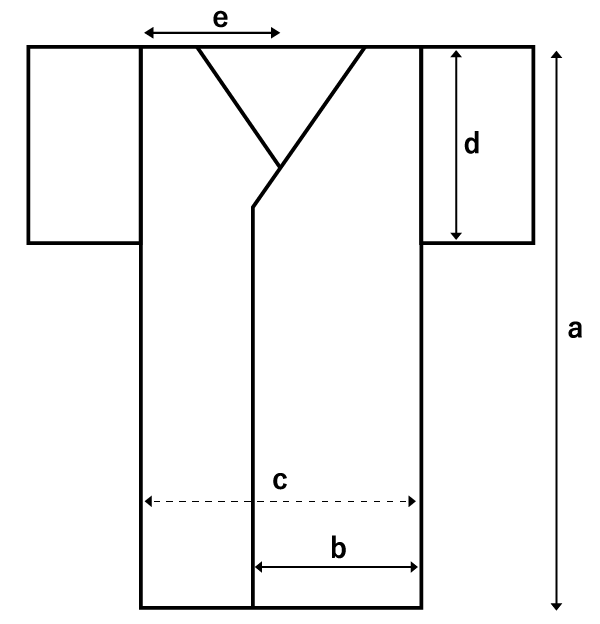
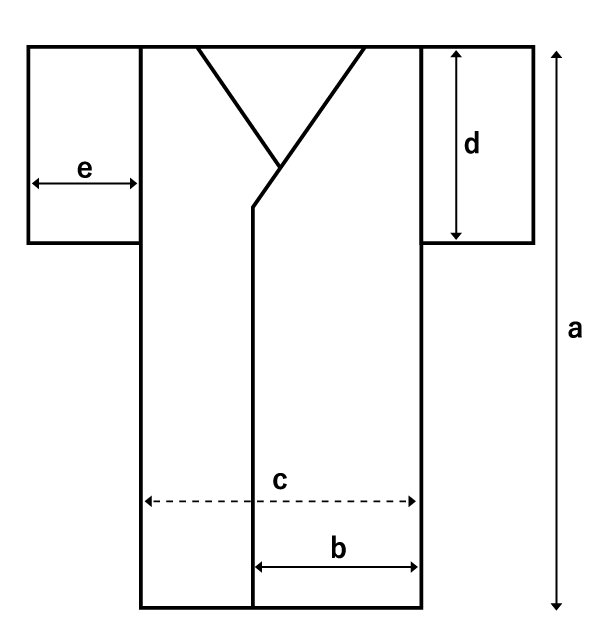
袖巾

Changed region(s): [[0.24, 0.0, 0.48, 0.0609], [0.06, 0.2436, 0.24, 0.3045]]

diff --git a/_modules_itemloop.php b/_modules_itemloop.php
@@ -105,7 +105,7 @@
                                     <figure class="md_item__sizeImg">
                                         <?php if (has_term('haori', 'itemcat')): ?>
                                             <img src="<?php echo get_template_directory_uri(); ?>/assets/images/size_chart01.png" alt="haori size"><?php elseif (has_term('juban', 'itemcat')): ?>
-                                            <img src="<?php echo get_template_directory_uri(); ?>/assets/images/size_chart02.png" alt="haori size">
+                                            <img src="<?php echo get_template_directory_uri(); ?>/assets/images/size_chart02.png?20201124" alt="haori size">
                                         <?php elseif (has_term('juban', 'itemcat')): ?>
                                             <img src="<?php echo get_template_directory_uri(); ?>/assets/images/size_chart03.png" alt="haori size">
                                         <?php endif;?>
@@ -167,7 +167,7 @@
                                                 <?php endif;?>
                                                 <?php if (get_field('item_haori__yuki')): ?>
                                                     <li>
-                                                        <span>e</span><span>裄</span><span>yuki</span>
+                                                        <span>e</span><span>袖巾</span><span>sodehaba</span>
                                                         <span class="unit cm"><?php the_field('item_haori__yuki');?>cm</span>
                                                         <span class="unit inch">
                                                             <?php
